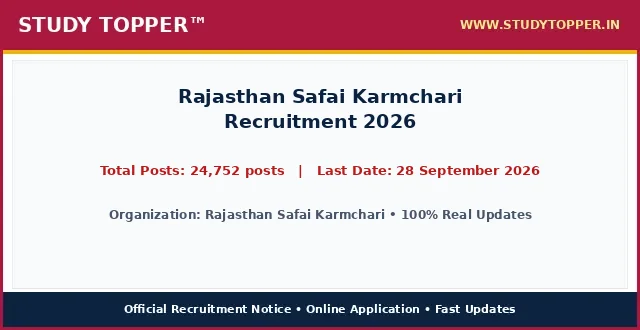
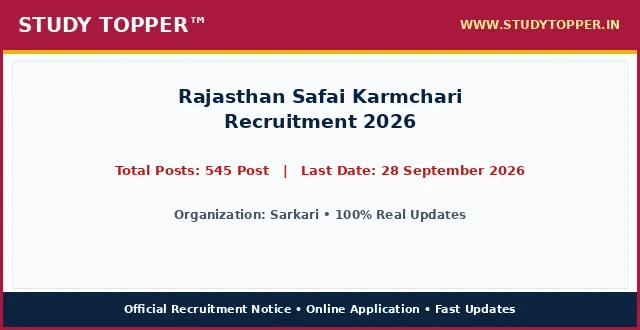
chore(lifecycle): daily auto-sort vacancies and update active dates

Changed region(s): [[0.1562, 0.4848, 0.8438, 0.5455], [0.1562, 0.6364, 0.8438, 0.6667]]

diff --git a/pages/rajasthan-safai-karmchari-2026.html b/pages/rajasthan-safai-karmchari-2026.html
@@ -987,12 +987,12 @@ ul.wp-block-latest-posts a:hover {
 <main class="site-main" id="main">
 <div class="gb-container gb-container-b39c368c">
 <h1 class="gb-headline gb-headline-e52a0102 gb-headline-text" style="font-size: 22px; font-weight: 700; color: #0000cd; text-align: left; margin: 8px 0 4px 0; line-height: 1.3; width: 100%; font-family: '-apple-system, BlinkMacSystemFont, 'Segoe UI', Roboto, 'Helvetica Neue', Arial, sans-serif', Times, serif, Hind, sans-serif;">Rajasthan Safai Karmchari Recruitment 2026</h1>
-<div class="gb-container gb-container-659bd175"><p style="color: #cd0808; font-weight: 700; font-size: 15px; margin: 2px 0 7px 0; text-align: left; font-family: '-apple-system, BlinkMacSystemFont, 'Segoe UI', Roboto, 'Helvetica Neue', Arial, sans-serif', Times, serif, Hind, sans-serif;">Post Date: August 21, 2026 07:49 PM</p></div>
-<p class="gb-headline gb-headline-550ae316 short_Details gb-headline-text" style="width: 100%; max-width: 100%; font-size: 16.8px; line-height: 1.55; color: #000000; text-align: justify; text-justify: inter-word; margin: 8px 0 14px 0; display: block; font-family: '-apple-system, BlinkMacSystemFont, 'Segoe UI', Roboto, 'Helvetica Neue', Arial, sans-serif', Times, serif, Hind, sans-serif;"><strong style="color: #0000cd;">Rajasthan Safai Karmchari</strong> has officially published the recruitment notice <strong style="color: #cd0808;">Rajasthan Safai Karmchari Recruitment 2026</strong> under notification number Official Advt 2026. Online applications are invited for 24,752 posts across multiple departments and cadre positions. Interested candidates possessing the requisite educational qualifications and falling between 21 Years. to 40 Years. can complete their online registration before the application deadline of 28 September 2026. Applicants should read the eligibility criteria, category reservation rules, and exam scheme thoroughly before submitting applications.</p>
+<div class="gb-container gb-container-659bd175"><p style="color: #cd0808; font-weight: 700; font-size: 15px; margin: 2px 0 7px 0; text-align: left; font-family: '-apple-system, BlinkMacSystemFont, 'Segoe UI', Roboto, 'Helvetica Neue', Arial, sans-serif', Times, serif, Hind, sans-serif;">Post Date: August 22, 2026 11:54 AM</p></div>
+<p class="gb-headline gb-headline-550ae316 short_Details gb-headline-text" style="width: 100%; max-width: 100%; font-size: 16.8px; line-height: 1.55; color: #000000; text-align: justify; text-justify: inter-word; margin: 8px 0 14px 0; display: block; font-family: '-apple-system, BlinkMacSystemFont, 'Segoe UI', Roboto, 'Helvetica Neue', Arial, sans-serif', Times, serif, Hind, sans-serif;"><strong style="color: #0000cd;">Sarkari</strong> has officially published the recruitment notice <strong style="color: #cd0808;">Rajasthan Safai Karmchari Recruitment 2026</strong> under notification number Official Advt 2026. Online applications are invited for 545 Post across multiple departments and cadre positions. Interested candidates possessing the requisite educational qualifications and falling between 18 Years to 40 Years can complete their online registration before the application deadline of 28 September 2026. Applicants should read the eligibility criteria, category reservation rules, and exam scheme thoroughly before submitting applications.</p>
 <div class="gb-container gb-container-9849916c"><div class="social-buttons-compact" style="display: flex; justify-content: flex-start; align-items: center; gap: 10px; margin: 10px 0 16px 0; width: 100%;"><a class="social-btn-compact wa" href="https://whatsapp.com/channel/0029Va9xyz" rel="noopener" style="background-color: #00d084; color: #ffffff; padding: 10px 18px; border-radius: 4px; text-decoration: none; font-weight: bold; font-size: 15.5px; display: inline-flex; align-items: center; justify-content: center; height: auto;" target="_blank">WhatsApp</a><a class="social-btn-compact tg" href="https://t.me/studytopperofficial" rel="noopener" style="background-color: #0088cc; color: #ffffff; padding: 10px 18px; border-radius: 4px; text-decoration: none; font-weight: bold; font-size: 15.5px; display: inline-flex; align-items: center; justify-content: center; height: auto;" target="_blank">Telegram</a></div></div>
 <div class="gb-container gb-container-f58e6ca1" style="border: 2px solid #5b032f; border-radius: 4px; overflow: hidden; margin: 15px 0 20px 0; background-color: #ffffff; width: 100%; box-sizing: border-box;">
 <h2 class="gb-headline gb-headline-2ca5a791 gb-headline-text" style="font-size: 16px; font-weight: 700; text-align: center; color: #ef0303; line-height: 1.3; padding: 6px 4px; margin: 0; background: #ffffff; font-family: '-apple-system, BlinkMacSystemFont, 'Segoe UI', Roboto, 'Helvetica Neue', Arial, sans-serif', Times, serif, Hind, sans-serif;">Rajasthan Safai Karmchari Recruitment 2026 &ndash; Latest Details &amp; Updates</h2>
-<h3 class="gb-headline gb-headline-7d5f86e8 gb-headline-text" style="font-size: 16px; font-weight: 600; text-align: center; color: #009703; line-height: 1.25; margin: 0; padding: 2px 4px 6px 4px; background: #ffffff; font-family: '-apple-system, BlinkMacSystemFont, 'Segoe UI', Roboto, 'Helvetica Neue', Arial, sans-serif', Times, serif, Hind, sans-serif;">Rajasthan Safai Karmchari : Details &amp; Summary</h3>
+<h3 class="gb-headline gb-headline-7d5f86e8 gb-headline-text" style="font-size: 16px; font-weight: 600; text-align: center; color: #009703; line-height: 1.25; margin: 0; padding: 2px 4px 6px 4px; background: #ffffff; font-family: '-apple-system, BlinkMacSystemFont, 'Segoe UI', Roboto, 'Helvetica Neue', Arial, sans-serif', Times, serif, Hind, sans-serif;">Sarkari : Details &amp; Summary</h3>
 <p class="gb-headline gb-headline-79adf169 gb-headline-text" style="margin: 0 0 6px 0; font-family: '-apple-system, BlinkMacSystemFont, 'Segoe UI', Roboto, 'Helvetica Neue', Arial, sans-serif', Times, serif, Hind, sans-serif; text-align: center; font-size: 18px; font-weight: 700;"><a href="/" style="color: #0000ff; text-decoration: underline;">StudyTopper.in</a></p>
 
 <style id="st-post-boxes-responsive-css">
@@ -1025,7 +1025,7 @@ ul.wp-block-latest-posts a:hover {
     <div style="background-color: #5b032f; color: #ffffff; padding: 8px 10px; font-size: 20px; font-weight: 700; text-align: center; font-family: '-apple-system, BlinkMacSystemFont, 'Segoe UI', Roboto, 'Helvetica Neue', Arial, sans-serif', Times, serif, Hind, sans-serif;">Important Dates</div>
     <div style="padding: 12px 14px; background-color: #ffffff;">
       <ul style="padding-left: 20px; margin: 0; list-style-type: disc; text-align: left; font-size: 14pt; line-height: 1.6; font-family: '-apple-system, BlinkMacSystemFont, 'Segoe UI', Roboto, 'Helvetica Neue', Arial, sans-serif', Times, serif, Hind, sans-serif;">
-        <li><span style="font-size: 14pt;">Online Apply Start Date : <strong>15 August 2026</strong></span></li><li><span style="font-size: 14pt;">Online Apply Last Date : <span style="color: #ff0000;"><strong>28 September 2026</strong></span></span></li><li><span style="font-size: 14pt;">Last Date For Fee Payment : <span style="color: #ff0000;"><strong>28 September 2026</strong></span></span></li><li><span style="font-size: 14pt;">Exam Date : <strong>Notify Soon</strong></span></li><li><span style="font-size: 14pt;">Admit Card : <strong>Before Exam</strong></span></li><li><span style="font-size: 14pt;">Result Date : <strong>Will Be Updated Here Soon</strong></span></li>
+        
       </ul>
     </div>
   </div>
@@ -1034,7 +1034,7 @@ ul.wp-block-latest-posts a:hover {
     <div style="background-color: #5b032f; color: #ffffff; padding: 8px 10px; font-size: 20px; font-weight: 700; text-align: center; font-family: '-apple-system, BlinkMacSystemFont, 'Segoe UI', Roboto, 'Helvetica Neue', Arial, sans-serif', Times, serif, Hind, sans-serif;">Application Fee</div>
     <div style="padding: 12px 14px; background-color: #ffffff;">
       <ul style="padding-left: 20px; margin: 0; list-style-type: disc; text-align: left; font-size: 14pt; line-height: 1.6; font-family: '-apple-system, BlinkMacSystemFont, 'Segoe UI', Roboto, 'Helvetica Neue', Arial, sans-serif', Times, serif, Hind, sans-serif;">
-        <li><span style="font-size: 14pt;">General, Other State : <strong>₹ 600/-</strong></span></li><li><span style="font-size: 14pt;">OBC, BC, SC, ST : <strong>₹ 400/-</strong></span></li><li><span style="font-size: 14pt;">Correction Charge : <strong>₹ 100/-</strong></span></li>
+        <li><span style="font-size: 14pt;">Bihar Police BPSSC Sub Inspector SI Prohibition Result 2026 Advt. No. : <strong>03/2026</strong></span></li><li><span style="font-size: 14pt;">UP Scholarship Online Form 2026 : <strong>2027</strong></span></li>
       </ul>
       <div style="margin-top: 10px; font-size: 14pt; line-height: 1.5; color: #000000; border-top: 1px dashed #ccc; padding-top: 8px; font-family: '-apple-system, BlinkMacSystemFont, 'Segoe UI', Roboto, 'Helvetica Neue', Arial, sans-serif', Times, serif, Hind, sans-serif;">
         <strong>Mode of Payment / Access:</strong> Online via Net Banking, Debit Card, Credit Card, UPI or Free Candidate Portal.
@@ -1047,10 +1047,10 @@ ul.wp-block-latest-posts a:hover {
 <div class="st-grid-row" style="display: flex; flex-wrap: wrap; width: 100%; border-top: 2px solid #5b032f; margin: 0; padding: 0; box-sizing: border-box;">
   <!-- Left Col: Age Limits -->
   <div class="st-col-half st-col-border-right" style="box-sizing: border-box; vertical-align: top;">
-    <div style="background-color: #046132; color: #ffffff; padding: 8px 10px; font-size: 17px; font-weight: 700; text-align: center; font-family: '-apple-system, BlinkMacSystemFont, 'Segoe UI', Roboto, 'Helvetica Neue', Arial, sans-serif', Times, serif, Hind, sans-serif;">Rajasthan Safai Karmchari : Age Limits As On 01 August 2026</div>
+    <div style="background-color: #046132; color: #ffffff; padding: 8px 10px; font-size: 17px; font-weight: 700; text-align: center; font-family: '-apple-system, BlinkMacSystemFont, 'Segoe UI', Roboto, 'Helvetica Neue', Arial, sans-serif', Times, serif, Hind, sans-serif;">Sarkari : Age Limits As On 01 August 2026</div>
     <div style="padding: 12px 14px; background-color: #ffffff;">
       <ul style="padding-left: 20px; margin: 0; list-style-type: disc; text-align: left; font-size: 14pt; line-height: 1.6; font-family: '-apple-system, BlinkMacSystemFont, 'Segoe UI', Roboto, 'Helvetica Neue', Arial, sans-serif', Times, serif, Hind, sans-serif;">
-        <li><span style="font-size: 14pt;">Minimum Age : <strong>21 Years.</strong></span></li><li><span style="font-size: 14pt;">Maximum Age : <strong>40 Years.</strong></span></li>
+        
       </ul>
     </div>
   </div>
@@ -1058,7 +1058,7 @@ ul.wp-block-latest-posts a:hover {
   <div class="st-col-half" style="box-sizing: border-box; vertical-align: top;">
     <div style="background-color: #f53c00; color: #ffffff; padding: 8px 10px; font-size: 20px; font-weight: 700; text-align: center; font-family: '-apple-system, BlinkMacSystemFont, 'Segoe UI', Roboto, 'Helvetica Neue', Arial, sans-serif', Times, serif, Hind, sans-serif;">Total Post</div>
     <div style="padding: 24px 10px; background-color: #ffffff; text-align: center;">
-      <span style="font-size: 28px; font-weight: 800; color: #000000; font-family: '-apple-system, BlinkMacSystemFont, 'Segoe UI', Roboto, 'Helvetica Neue', Arial, sans-serif', Times, serif, Hind, sans-serif;">24,752 posts</span>
+      <span style="font-size: 28px; font-weight: 800; color: #000000; font-family: '-apple-system, BlinkMacSystemFont, 'Segoe UI', Roboto, 'Helvetica Neue', Arial, sans-serif', Times, serif, Hind, sans-serif;">545 Post</span>
     </div>
   </div>
 </div>
@@ -1070,19 +1070,7 @@ ul.wp-block-latest-posts a:hover {
 <div class="gb-container gb-container-ec1f6e4c">
 <h2 class="gb-headline gb-headline-c7683bda gb-headline-text" style="font-size: 24px; font-weight: 800; text-align: center; color: #ef0303; line-height: 1.35; margin: 20px 0 12px 0; padding: 6px 4px; font-family: '-apple-system, BlinkMacSystemFont, 'Segoe UI', Roboto, 'Helvetica Neue', Arial, sans-serif', Times, serif, Hind, sans-serif;">Rajasthan Safai Karmchari Recruitment 2026 : Key Overview &amp; Matrix</h2>
 <div class="gb-headline gb-headline-60ccea19 gb-headline-text">
-<table style="border-collapse: collapse; width: 100%; height: 150px;">
-<tbody>
-<tr style="height: 25px;">
-<td colspan="2" style="width: 50%; text-align: center; height: 25px;"><span style="background-color: #000080; color: #ffffff; font-size: 14pt;"><strong> Rajasthan Safai Karmchari : Category Wise Vacancy Details </strong></span></td>
-</tr>
-<tr style="height: 25px;">
-<td style="width: 50%; height: 25px; text-align: center;"><span style="font-size: 14pt;"><strong>Category / Particulars</strong></span></td>
-<td style="width: 50%; height: 25px; text-align: center;"><span style="font-size: 14pt;"><strong>Count / Status</strong></span></td>
-</tr>
-<tr><td style="text-align: center;">General (UR)</td><td style="text-align: center; font-weight: normal; color: inherit;">As per Rules</td></tr><tr><td style="text-align: center;">OBC / EWS</td><td style="text-align: center; font-weight: normal; color: inherit;">As per Rules</td></tr><tr><td style="text-align: center;">SC / ST</td><td style="text-align: center; font-weight: normal; color: inherit;">As per Rules</td></tr><tr><td style="text-align: center;">Total Vacancies</td><td style="text-align: center; font-weight: bold; color: #ff0000;">24,752 posts</td></tr>
-</tbody>
-</table>
-<p>&nbsp;</p>
+
 <table style="border-collapse: collapse; width: 100%;">
 <tbody>
 <tr>
@@ -1091,12 +1079,13 @@ ul.wp-block-latest-posts a:hover {
 <th style="background-color: #f53c00; color: #ffffff; padding: 6px 10px; text-align: center; border: 1px solid #d35400; font-size: 15px; font-weight: 700; font-family: '-apple-system, BlinkMacSystemFont, 'Segoe UI', Roboto, 'Helvetica Neue', Arial, sans-serif', Times, serif, Hind, sans-serif;">Eligibility Criteria</th>
 </tr>
 <tr>
-<td style="padding: 8px; border: 1px solid #ddd; font-weight: bold;">Rajasthan Safai Karmchari Recruitment 2026</td>
-<td style="padding: 8px; border: 1px solid #ddd; text-align: center; font-weight: bold;">24,752 posts</td>
-<td style="padding: 8px; border: 1px solid #ddd;">Passed 10th / 12th / Diploma / Bachelor Degree in relevant discipline from any recognized Board or University in India as per official notification.</td>
+<td style="padding: 8px; border: 1px solid #ddd; font-weight: bold;">Sarkari Recruitment</td>
+<td style="padding: 8px; border: 1px solid #ddd; text-align: center; font-weight: bold;">545 Post</td>
+<td style="padding: 8px; border: 1px solid #ddd;">Please refer to the official notification linked below for detailed educational qualifications.</td>
 </tr>
 </tbody>
 </table>
+<p>&nbsp;</p>
 <p>&nbsp;</p>
 
 
@@ -1104,10 +1093,10 @@ ul.wp-block-latest-posts a:hover {
 <table style="border-collapse: collapse; width: 100%;">
 <tbody>
 <tr>
-<td style="width: 100%; text-align: center;"><span style="background-color: #000080; color: #ffffff; font-size: 14pt; font-weight: bold; display: block; padding: 6px;"> How to Fill Rajasthan Safai Karmchari Online Application Form </span></td>
+<td style="width: 100%; text-align: center;"><span style="background-color: #000080; color: #ffffff; font-size: 14pt; font-weight: bold; display: block; padding: 6px;"> How to Fill Sarkari Online Application Form </span></td>
 </tr>
 <tr>
-<td style="width: 100%;"><ol style="margin:0; padding-left:18px; text-align: left !important; list-style-position: outside !important"><li style="margin-bottom:6px; text-align: left !important;">Visit official portal for Rajasthan Safai Karmchari Recruitment 2026 via direct application link in important links section below.</li><li style="margin-bottom:6px; text-align: left !important;">Read official recruitment notification carefully to verify category eligibility criteria and age limits.</li><li style="margin-bottom:6px; text-align: left !important;">Complete online candidate registration with valid mobile number and email ID.</li><li style="margin-bottom:6px; text-align: left !important;">Fill educational qualifications, identity details, and permanent address accurately.</li><li style="margin-bottom:6px; text-align: left !important;">Upload scanned photograph and signature in required dimensions.</li><li style="margin-bottom:6px; text-align: left !important;">Resize candidate photograph and signature accurately using StudyTopper Tools resizer at indtool.in.</li><li style="margin-bottom:6px; text-align: left !important;">Pay applicable category application fee online using Debit Card, Credit Card, Net Banking, or UPI.</li><li style="margin-bottom:6px; text-align: left !important;">Review full application form preview thoroughly and submit before 28 September 2026.</li><li style="margin-bottom:6px; text-align: left !important;">Download and print submitted application confirmation page for future reference.</li></ol></td>
+<td style="width: 100%;"><ol style="margin:0; padding-left:18px; text-align: left !important; list-style-position: outside !important"><li style="margin-bottom:6px; text-align: left !important;">Read the official recruitment notification carefully before applying.</li><li style="margin-bottom:6px; text-align: left !important;">Keep all basic documents ready: ID Proof, Address Details, Basic Details.</li><li style="margin-bottom:6px; text-align: left !important;">Ready your scanned documents like Photo, Signature, ID Proof, etc.</li><li style="margin-bottom:6px; text-align: left !important;">Click on the 'Apply Online' link given in the Important Links section below.</li><li style="margin-bottom:6px; text-align: left !important;">Fill out all the columns in the application form accurately.</li><li style="margin-bottom:6px; text-align: left !important;">Pay the required application fee if applicable.</li><li style="margin-bottom:6px; text-align: left !important;">Take a printout of the final submitted application form.</li><li style="margin-bottom:6px; text-align: left !important;">Resize candidate photograph and signature accurately using the <a href="https://indtool.in" rel="noopener" target="_blank"><strong>StudyTopper Tools</strong></a> image resizer at indtool.in.</li></ol></td>
 </tr>
 </tbody>
 </table>
@@ -1115,12 +1104,12 @@ ul.wp-block-latest-posts a:hover {
 <table style="border-collapse: collapse; width: 100%;">
 <tbody>
 <tr>
-<td style="width: 100%; text-align: center;"><span style="background-color: #000080; color: #ffffff; font-size: 14pt;"><strong><span style="color: #ffffff;"> Rajasthan Safai Karmchari Recruitment 2026 : Mode Of Selection </span></strong></span></td>
+<td style="width: 100%; text-align: center;"><span style="background-color: #000080; color: #ffffff; font-size: 14pt;"><strong><span style="color: #ffffff;"> Sarkari Recruitment 2026 : Mode Of Selection </span></strong></span></td>
 </tr>
 <tr>
 <td style="width: 100%;">
 <ul class="wp-block-list" style="text-align: left !important; list-style-position: outside !important">
-<li style="text-align: left !important;"><span style="font-size: 14pt;"><strong>Computer Based Examination (CBE) / Evaluation</strong></span></li><li style="text-align: left !important;"><span style="font-size: 14pt;"><strong>Document Verification</strong></span></li><li style="text-align: left !important;"><span style="font-size: 14pt;"><strong>Final Merit Allotment</strong></span></li>
+<li style="text-align: left !important;"><span style="font-size: 14pt;"><strong>Computer Based Examination (CBE) / Written Exam</strong></span></li><li style="text-align: left !important;"><span style="font-size: 14pt;"><strong>Document Verification</strong></span></li><li style="text-align: left !important;"><span style="font-size: 14pt;"><strong>Medical Examination</strong></span></li>
 </ul>
 </td>
 </tr>
@@ -1158,7 +1147,7 @@ ul.wp-block-latest-posts a:hover {
 <span style="font-size: 19px; font-weight: 800; color: #000000; font-family: '-apple-system, BlinkMacSystemFont, 'Segoe UI', Roboto, 'Helvetica Neue', Arial, sans-serif', Times, serif, Hind, sans-serif;">Apply Online Link</span>
 </td>
 <td style="width: 50%; padding: 14px 16px; text-align: center;">
-<span style="font-size: 20px; font-weight: 800; font-family: '-apple-system, BlinkMacSystemFont, 'Segoe UI', Roboto, 'Helvetica Neue', Arial, sans-serif', Times, serif, Hind, sans-serif;"><a href="https://sso.rajasthan.gov.in/signin?encq=6JkTF7D/fPuyiLpqlTuv+tsssIL22cKEce/qYZMZKsM=" aria-label="Click Here for Apply Online Link - Rajasthan Safai Karmchari Recruitment 2026" rel="noopener noreferrer" style="color: #0000ef; font-weight: 800; text-decoration: none;" target="_blank">Click Here</a></span>
+<span style="font-size: 20px; font-weight: 800; font-family: '-apple-system, BlinkMacSystemFont, 'Segoe UI', Roboto, 'Helvetica Neue', Arial, sans-serif', Times, serif, Hind, sans-serif;"><a href="https://www.sarkariresult.com/2026/mpesb-group2-subgroup-4-aug26/" aria-label="Click Here for Apply Online Link - Rajasthan Safai Karmchari Recruitment 2026" rel="noopener noreferrer" style="color: #0000ef; font-weight: 800; text-decoration: none;" target="_blank">Click Here</a></span>
 </td>
 </tr>
 <tr style="border-bottom: 1px solid #000000; background-color: #fff37a;">
@@ -1166,23 +1155,31 @@ ul.wp-block-latest-posts a:hover {
 <span style="font-size: 19px; font-weight: 800; color: #000000; font-family: '-apple-system, BlinkMacSystemFont, 'Segoe UI', Roboto, 'Helvetica Neue', Arial, sans-serif', Times, serif, Hind, sans-serif;">Check Official Notification</span>
 </td>
 <td style="width: 50%; padding: 14px 16px; text-align: center;">
-<span style="font-size: 20px; font-weight: 800; font-family: '-apple-system, BlinkMacSystemFont, 'Segoe UI', Roboto, 'Helvetica Neue', Arial, sans-serif', Times, serif, Hind, sans-serif;"><a href="https://jankalyanfile.rajasthan.gov.in/WebMyWayFiles/OrderEntry/LSG/2026/Recruitment_Related/O_270726_b3f2c06b-6021-49a2-9661-14cdb0f93dd0.pdf" aria-label="Click Here for Check Official Notification - Rajasthan Safai Karmchari Recruitment 2026" rel="noopener noreferrer" style="color: #0000ef; font-weight: 800; text-decoration: none;" target="_blank">Click Here</a></span>
+<span style="font-size: 20px; font-weight: 800; font-family: '-apple-system, BlinkMacSystemFont, 'Segoe UI', Roboto, 'Helvetica Neue', Arial, sans-serif', Times, serif, Hind, sans-serif;"><a href="" aria-label="Click Here for Check Official Notification - Rajasthan Safai Karmchari Recruitment 2026" rel="noopener noreferrer" style="color: #0000ef; font-weight: 800; text-decoration: none;" target="_blank">Click Here</a></span>
 </td>
 </tr>
 <tr style="border-bottom: 1px solid #000000; background-color: #fff37a;">
 <td style="width: 50%; padding: 14px 16px; border-right: 1px solid #000000; text-align: center;">
-<span style="font-size: 19px; font-weight: 800; color: #000000; font-family: '-apple-system, BlinkMacSystemFont, 'Segoe UI', Roboto, 'Helvetica Neue', Arial, sans-serif', Times, serif, Hind, sans-serif;">Rajasthan Safai Karmchari Official Website</span>
+<span style="font-size: 19px; font-weight: 800; color: #000000; font-family: '-apple-system, BlinkMacSystemFont, 'Segoe UI', Roboto, 'Helvetica Neue', Arial, sans-serif', Times, serif, Hind, sans-serif;">Photo / Sign Resizer Tool</span>
 </td>
 <td style="width: 50%; padding: 14px 16px; text-align: center;">
-<span style="font-size: 20px; font-weight: 800; font-family: '-apple-system, BlinkMacSystemFont, 'Segoe UI', Roboto, 'Helvetica Neue', Arial, sans-serif', Times, serif, Hind, sans-serif;"><a href="https://lsg.rajasthan.gov.in/lsg/#/home/dptHome" aria-label="Click Here for Rajasthan Safai Karmchari Official Website - Rajasthan Safai Karmchari Recruitment 2026" rel="noopener noreferrer" style="color: #0000ef; font-weight: 800; text-decoration: none;" target="_blank">Click Here</a></span>
+<span style="font-size: 20px; font-weight: 800; font-family: '-apple-system, BlinkMacSystemFont, 'Segoe UI', Roboto, 'Helvetica Neue', Arial, sans-serif', Times, serif, Hind, sans-serif;"><a href="https://indtool.in" aria-label="Click Here for Photo / Sign Resizer Tool - Rajasthan Safai Karmchari Recruitment 2026" rel="noopener noreferrer" style="color: #0000ef; font-weight: 800; text-decoration: none;" target="_blank">Click Here</a></span>
 </td>
 </tr>
-<tr style=" background-color: #fff37a;">
+<tr style="border-bottom: 1px solid #000000; background-color: #fff37a;">
 <td style="width: 50%; padding: 14px 16px; border-right: 1px solid #000000; text-align: center;">
 <span style="font-size: 19px; font-weight: 800; color: #000000; font-family: '-apple-system, BlinkMacSystemFont, 'Segoe UI', Roboto, 'Helvetica Neue', Arial, sans-serif', Times, serif, Hind, sans-serif;">Check Sarkari Result</span>
 </td>
 <td style="width: 50%; padding: 14px 16px; text-align: center;">
 <span style="font-size: 20px; font-weight: 800; font-family: '-apple-system, BlinkMacSystemFont, 'Segoe UI', Roboto, 'Helvetica Neue', Arial, sans-serif', Times, serif, Hind, sans-serif;"><a href="/" aria-label="Click Here for Check Sarkari Result - Rajasthan Safai Karmchari Recruitment 2026" rel="noopener noreferrer" style="color: #0000ef; font-weight: 800; text-decoration: none;" >Click Here</a></span>
+</td>
+</tr>
+<tr style=" background-color: #fff37a;">
+<td style="width: 50%; padding: 14px 16px; border-right: 1px solid #000000; text-align: center;">
+<span style="font-size: 19px; font-weight: 800; color: #000000; font-family: '-apple-system, BlinkMacSystemFont, 'Segoe UI', Roboto, 'Helvetica Neue', Arial, sans-serif', Times, serif, Hind, sans-serif;">Sarkari Website</span>
+</td>
+<td style="width: 50%; padding: 14px 16px; text-align: center;">
+<span style="font-size: 20px; font-weight: 800; font-family: '-apple-system, BlinkMacSystemFont, 'Segoe UI', Roboto, 'Helvetica Neue', Arial, sans-serif', Times, serif, Hind, sans-serif;"><a href="" aria-label="Click Here for Sarkari Website - Rajasthan Safai Karmchari Recruitment 2026" rel="noopener noreferrer" style="color: #0000ef; font-weight: 800; text-decoration: none;" target="_blank">Click Here</a></span>
 </td>
 </tr>
 </tbody>
@@ -1196,9 +1193,9 @@ ul.wp-block-latest-posts a:hover {
   <div style="font-size: 14.5px; line-height: 1.65; color: #222222;">
     <p style="margin: 0 0 4px 0;"><strong style="color: #000080;">Q1. What is the last date to apply for Rajasthan Safai Karmchari Recruitment 2026?</strong></p>
 <p style="margin: 0 0 16px 0; color: #333333; line-height: 1.6;">Ans. The last date for online submission of application is 28 September 2026.</p><p style="margin: 0 0 4px 0;"><strong style="color: #000080;">Q2. What is the age limit for Rajasthan Safai Karmchari Recruitment 2026?</strong></p>
-<p style="margin: 0 0 16px 0; color: #333333; line-height: 1.6;">Ans. Candidate age should generally be between 21 Years. and 40 Years. as on 01 August 2026. Age relaxation is applicable per rules.</p><p style="margin: 0 0 4px 0;"><strong style="color: #000080;">Q3. What is the application fee for Rajasthan Safai Karmchari Recruitment 2026?</strong></p>
+<p style="margin: 0 0 16px 0; color: #333333; line-height: 1.6;">Ans. Candidate age should generally be between 18 Years and 40 Years as on 01 August 2026. Age relaxation is applicable per rules.</p><p style="margin: 0 0 4px 0;"><strong style="color: #000080;">Q3. What is the application fee for Rajasthan Safai Karmchari Recruitment 2026?</strong></p>
 <p style="margin: 0 0 16px 0; color: #333333; line-height: 1.6;">Ans. Application fee varies by category (e.g., General/OBC: Rs. 100/-, SC/ST/PwD: Exempted).</p><p style="margin: 0 0 4px 0;"><strong style="color: #000080;">Q4. How many total posts are available in Rajasthan Safai Karmchari Recruitment 2026?</strong></p>
-<p style="margin: 0 0 16px 0; color: #333333; line-height: 1.6;">Ans. A total of 24,752 posts have been officially announced for this recruitment drive.</p><p style="margin: 0 0 4px 0;"><strong style="color: #000080;">Q5. How can I apply online for Rajasthan Safai Karmchari Recruitment 2026?</strong></p>
+<p style="margin: 0 0 16px 0; color: #333333; line-height: 1.6;">Ans. A total of 545 Post have been officially announced for this recruitment drive.</p><p style="margin: 0 0 4px 0;"><strong style="color: #000080;">Q5. How can I apply online for Rajasthan Safai Karmchari Recruitment 2026?</strong></p>
 <p style="margin: 0 0 0 0; color: #333333; line-height: 1.6;">Ans. Eligible candidates can click the 'Apply Online' link in the Important Links table, register, fill details, resize photo/signature via indtool.in, and submit before 28 September 2026.</p>
   </div>
 </div>
